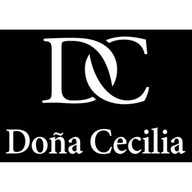
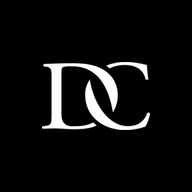
Torneos, fecha de entrada a doma, lector de chip e ícono DC
- Nuevo tipo de evento "Torneo" con contador y botón "+1 torneo" en
  Hechura y Jugadores (y "Torneos antes de la app").
- Campo "Entrada a doma (fecha)" en la ficha.
- Si el buscador recibe un chip completo (lector en modo teclado), abre
  directo la ficha del caballo.
- Ícono de la app con el monograma DC.

Claude-Session: https://claude.ai/code/session_01R1ArDYpcVxbGQihhCdmt13

diff --git a/app/index.html b/app/index.html
@@ -7,7 +7,7 @@
 </head>
 <body>
 <title>Doña Cecilia</title>
-<link rel="manifest" href="manifest.webmanifest">
+<link rel="manifest" href="manifest.webmanifest" crossorigin="use-credentials">
 <meta name="theme-color" content="#0E0E0E">
 <meta name="apple-mobile-web-app-capable" content="yes">
 <meta name="apple-mobile-web-app-title" content="Doña Cecilia">
@@ -175,7 +175,7 @@ td.link{cursor:pointer;font-weight:600}
 
 <script>
 const CATS=['Potrillos','Doma','Hechura','Jugadores','Madres'];
-const TIPOS=['Práctica','Desparasitación','Desvasada','Herrada','Vacuna','Veterinario','Tacto / Eco','Servicio','Parición','Castración','Movimiento','Revisión','Otro'];
+const TIPOS=['Práctica','Torneo','Desparasitación','Desvasada','Herrada','Vacuna','Veterinario','Tacto / Eco','Servicio','Parición','Castración','Movimiento','Revisión','Otro'];
 const TABS=[['inicio','Inicio'],['caballos','Caballos'],['madres','Madres'],['camadas','Camadas'],['sanidad','Sanidad'],['padrillos','Padrillos'],['notas','Notas']];
 const S={caballos:[],eventos:[],servicios:[],padrillos:[],notas:[],config:{despMadres:180,despResto:90,desvasar:60,herrar:45,temporada:2026},loaded:{}};
 const UI={tab:'inicio',cat:'',lugar:'',q:'',bajas:false,sel:null,camada:null,temporada:null,sanCat:'',notaFiltro:'pend',ficha:null};
@@ -197,6 +197,7 @@ function findByName(n){const k=norm(n);return k?S.caballos.find(c=>norm(c.nombre
 
 const fotoUrl=f=>(window.DC_BLOBS&&DC_BLOBS[f])||window.DC_FOTO_URL(f);
 const practicas=c=>(+c.practicasPrevias||0)+S.eventos.filter(e=>e.caballoId===c.id&&e.tipo==='Práctica').length;
+const torneos=c=>(+c.torneosPrevios||0)+S.eventos.filter(e=>e.caballoId===c.id&&e.tipo==='Torneo').length;
 function renderLogo(){const l=$('#logo');const id=S.config.logo;l.innerHTML=id?`<img src="${fotoUrl(id)}" alt="Doña Cecilia">`:'<span>DC</span>'}
 /* ---------- sanidad ---------- */
 function ultimo(cid,tipo){let f='';for(const e of S.eventos)if(e.caballoId===cid&&e.tipo===tipo&&e.fecha>f)f=e.fecha;return f}
@@ -259,7 +260,7 @@ function vCaballos(){
     return `<button class="hcard ${esc(c.sexo)} ${c.estado!=='Activo'?'baja':''}" data-${sel?'pick':'open'}="${c.id}">
       ${sel?`<input type="checkbox" tabindex="-1" ${sel.has(c.id)?'checked':''}>`:''}
       ${c.fotos?.length?`<img class="thumb" src="${fotoUrl(c.fotos[0])}" alt="" loading="lazy">`:''}
-      <div class="grow"><div class="nm">${esc(c.nombre)} ${c.venta?'<span class="pill p-venta">A la venta</span>':''} ${c.categoria==='Hechura'&&c.estado==='Activo'?`<span class="pill p-none">${practicas(c)} prácticas</span>`:''}</div>
+      <div class="grow"><div class="nm">${esc(c.nombre)} ${c.venta?'<span class="pill p-venta">A la venta</span>':''} ${c.categoria==='Hechura'&&c.estado==='Activo'?`<span class="pill p-none">${practicas(c)} prácticas</span>${torneos(c)?` <span class="pill p-none">${torneos(c)} torneos</span>`:''}`:''}</div>
       <div class="meta">${[e!==null?e+(e===1?' año':' años'):'',c.categoria,c.camada?'Camada '+c.camada:'',c.estado!=='Activo'?c.estado:''].filter(Boolean).join(' · ')}</div></div>
       ${c.estado==='Activo'&&enCampo(c)?`<div class="dots" title="Desparasitación · Desvasada">${ds.map(s=>`<span class="dot d-${s.st}"></span>`).join('')}</div>`:''}
       ${sel?'':'<span class="go">›</span>'}</button>`}).join('')||'<div class="empty">No hay caballos con ese filtro.</div>'}</div>
@@ -344,9 +345,10 @@ function renderFicha(){
    <div class="sheet-h"><div><h2>${esc(c.nombre)}</h2><div class="row" style="margin-top:6px"><span class="pill p-none">${esc(c.categoria)}</span>${c.lugar?`<span class="pill p-none">${esc(c.lugar)}</span>`:''}${c.venta?'<span class="pill p-venta">A la venta</span>':''}${c.estado!=='Activo'?`<span class="pill p-bad">${esc(c.estado)}${c.bajaFecha?' '+fmt(c.bajaFecha):''}</span>`:''}</div></div><button class="x" data-act="close" aria-label="Cerrar">×</button></div>
    <div class="sheet-b">
     ${c.fotos?.length?`<img class="cover" src="${fotoUrl(c.fotos[0])}" alt="${esc(c.nombre)}">`:''}
-    <div class="kv">${[...(c.domador?[['Domador',c.domador]]:[]),['Sexo',c.sexo],['Nacimiento',fmt(c.nac)+(e!==null?` (${e} ${e===1?'año':'años'})`:'')],['Camada',c.camada],['Pelaje',c.pelaje],['Alzada',c.alzada],['RP',c.rp],['N° chip',c.chip]].map(([k,v])=>`<div><span>${k}</span><b>${esc(v||'—')}</b></div>`).join('')}</div>
+    <div class="kv">${[...(c.domador?[['Domador',c.domador]]:[]),['Sexo',c.sexo],['Nacimiento',fmt(c.nac)+(e!==null?` (${e} ${e===1?'año':'años'})`:'')],['Camada',c.camada],['Pelaje',c.pelaje],['Alzada',c.alzada],['RP',c.rp],['N° chip',c.chip],...(c.ingresoDoma?[['Entró a doma',fmt(c.ingresoDoma)]]:[])].map(([k,v])=>`<div><span>${k}</span><b>${esc(v||'—')}</b></div>`).join('')}</div>
     ${c.obs?`<div><h3>Observaciones</h3><div>${esc(c.obs)}</div></div>`:''}
     ${['Hechura','Jugadores'].includes(c.categoria)&&c.estado==='Activo'?`<div class="prac"><b>${practicas(c)}</b><div class="grow" style="flex:1">prácticas<div class="small muted">${(()=>{const u=S.eventos.filter(e=>e.caballoId===c.id&&e.tipo==='Práctica').sort((a,b)=>b.fecha.localeCompare(a.fecha))[0];return u?'Última: '+fmt(u.fecha):'Sin prácticas cargadas en la app'})()}</div></div>${canWrite?`<button class="btn pri" data-prac="${c.id}">+1 práctica</button>`:''}</div>`:''}
+    ${['Hechura','Jugadores'].includes(c.categoria)&&c.estado==='Activo'?`<div class="prac"><b>${torneos(c)}</b><div class="grow" style="flex:1">torneos<div class="small muted">${(()=>{const u=S.eventos.filter(e=>e.caballoId===c.id&&e.tipo==='Torneo').sort((a,b)=>b.fecha.localeCompare(a.fecha))[0];return u?'Último: '+fmt(u.fecha)+(u.obs?' · '+esc(u.obs):''):'Sin torneos cargados en la app'})()}</div></div>${canWrite?`<button class="btn pri" data-torneo="${c.id}">+1 torneo</button>`:''}</div>`:''}
     ${c.estado==='Activo'?`<div><h3>Sanidad actual</h3><div class="list">${['Desparasitación','Desvasada','Herrada'].map(t=>{const s=estadoSan(c,t);return `<div class="li"><div>${t}<div class="sub">Última ${fmt(s.u)}${s.p?' · próxima '+fmt(s.p):''}</div></div><span class="pill p-${s.st}">${s.txt}</span></div>`}).join('')}</div></div>`:''}
     <div><div class="head" style="margin-bottom:6px"><h3 style="margin:0">Eventos</h3>${canWrite?`<button class="btn sm pri" data-evento="${c.id}">+ Evento</button>`:''}</div>
      <div class="list">${evs.map(x=>`<div class="li"><div><b style="font-weight:600">${esc(x.tipo)}</b>${x.detalle&&x.detalle!==x.tipo?' · '+esc(x.detalle):''}<div class="sub">${fmt(x.fecha)}${x.obs?' · '+esc(x.obs):''}${x.por?' · cargó '+esc(names[x.por]||'…'):''}</div></div>
@@ -454,11 +456,11 @@ function slugId(p){return p+'-'+Date.now().toString(36)+Math.random().toString(3
 function caballoForm(c,pre={},after){
   const v={...pre,...(c||{})};
   form(c?'Editar datos':'Alta de caballo',[
-    {k:'nombre',l:'Nombre',v:v.nombre,req:1,full:1},{k:'categoria',l:'Categoría',type:'select',opts:CATS,v:v.categoria||'Potrillos'},{k:'lugar',l:'Lugar',v:v.lugar??'Doña Cecilia',list:'dl-lug'},{k:'domador',l:'Domador',v:v.domador},{k:'alzada',l:'Alzada (ej: 1,55 m)',v:v.alzada},
+    {k:'nombre',l:'Nombre',v:v.nombre,req:1,full:1},{k:'categoria',l:'Categoría',type:'select',opts:CATS,v:v.categoria||'Potrillos'},{k:'lugar',l:'Lugar',v:v.lugar??'Doña Cecilia',list:'dl-lug'},{k:'domador',l:'Domador',v:v.domador},{k:'ingresoDoma',l:'Entrada a doma (fecha)',type:'date',v:v.ingresoDoma},{k:'alzada',l:'Alzada (ej: 1,55 m)',v:v.alzada},
     {k:'sexo',l:'Sexo',type:'select',opts:['Macho','Hembra',''],v:v.sexo||''},{k:'pelaje',l:'Pelaje',v:v.pelaje},{k:'nac',l:'Fecha de nacimiento',type:'date',v:v.nac},{k:'camada',l:'Camada (año)',type:'number',v:v.camada},
     {k:'rp',l:'RP',v:v.rp},{k:'chip',l:'N° chip',v:v.chip},{k:'padre',l:'Padre',v:v.padre,list:'dl-pad'},{k:'madre',l:'Madre',v:v.madre,list:'dl-hembras'},
     {k:'abueloP',l:'Abuelo paterno',v:v.abueloP},{k:'abuelaP',l:'Abuela paterna',v:v.abuelaP},{k:'abueloM',l:'Abuelo materno',v:v.abueloM},{k:'abuelaM',l:'Abuela materna',v:v.abuelaM},
-    {k:'practicasPrevias',l:'Prácticas antes de la app',type:'number',v:v.practicasPrevias},{k:'venta',l:'A la venta',type:'check',v:v.venta},{k:'obs',l:'Observaciones',type:'area',v:v.obs}],
+    {k:'practicasPrevias',l:'Prácticas antes de la app',type:'number',v:v.practicasPrevias},{k:'torneosPrevios',l:'Torneos antes de la app',type:'number',v:v.torneosPrevios},{k:'venta',l:'A la venta',type:'check',v:v.venta},{k:'obs',l:'Observaciones',type:'area',v:v.obs}],
     async d=>{if(!d.camada&&d.nac)d.camada=+d.nac.slice(0,4);
       if(c){await db.collection('caballos').doc(c.id).update(d);toast('Datos guardados');UI.ficha=c.id;renderFicha()}
       else{const id=slugId('c');await db.collection('caballos').doc(id).set({...d,estado:'Activo'});toast(d.nombre+' dado de alta');if(after)await after(id,d);UI.ficha=id;renderFicha()}},datalists());conectarGenealogia()}
@@ -512,7 +514,7 @@ function notaForm(n){form(n?'Editar nota':'Nueva nota',[{k:'titulo',l:'Tema',v:n
 /* ---------- events ---------- */
 let pendingDel=null;
 document.addEventListener('click',async ev=>{
-  const t=ev.target.closest('[data-venta],[data-vsave],[data-vpng],[data-vtxt],[data-go],[data-prac],[data-portada],[data-delfoto],[data-tab],[data-cat],[data-act],[data-open],[data-open-name],[data-pick],[data-temp],[data-camada],[data-sancat],[data-nf],[data-parto],[data-serv],[data-pad],[data-nota],[data-nota-toggle],[data-evento],[data-delev],[data-edit],[data-baja],[data-alta-de-nuevo],[data-delserv],[data-delnota],[data-close-ov]');
+  const t=ev.target.closest('[data-venta],[data-vsave],[data-vpng],[data-vtxt],[data-go],[data-prac],[data-torneo],[data-portada],[data-delfoto],[data-tab],[data-cat],[data-act],[data-open],[data-open-name],[data-pick],[data-temp],[data-camada],[data-sancat],[data-nf],[data-parto],[data-serv],[data-pad],[data-nota],[data-nota-toggle],[data-evento],[data-delev],[data-edit],[data-baja],[data-alta-de-nuevo],[data-delserv],[data-delnota],[data-close-ov]');
   if(!t)return;const d=t.dataset;
   if('closeOv' in d&&ev.target!==t)return;
   if('closeOv' in d){closeModal();return}
@@ -535,6 +537,7 @@ document.addEventListener('click',async ev=>{
   if(d.vsave){await guardarVenta(d.vsave);return}
   if(d.vpng){await bajarPng(d.vpng);return}
   if(d.vtxt){await copiarTxt(d.vtxt);return}
+  if(d.torneo){const c=byId(d.torneo);const t=prompt('¿Qué torneo? (podés dejarlo vacío)','');if(t===null)return;await db.collection('eventos').doc(slugId('e')).set({fecha:hoy(),caballoId:c.id,caballo:c.nombre,tipo:'Torneo',detalle:'Torneo',obs:t.trim(),por:uid||''});toast('Torneo sumado a '+c.nombre);return}
   if(d.prac){const c=byId(d.prac);await db.collection('eventos').doc(slugId('e')).set({fecha:hoy(),caballoId:c.id,caballo:c.nombre,tipo:'Práctica',detalle:'Práctica',obs:'',por:uid||''});toast('Práctica sumada a '+c.nombre);return}
   if(d.go){const [k,v]=d.go.split(':');UI.tab=k==='cat'?'caballos':'camadas';if(k==='cat'){UI.cat=v;UI.bajas=false}else UI.camada=+v;render();window.scrollTo(0,0);return}
   if(d.portada){const [id,f]=d.portada.split('|');const c=byId(id);await db.collection('caballos').doc(id).update({fotos:[f,...c.fotos.filter(x=>x!==f)]});toast('Portada cambiada');return}
@@ -561,7 +564,7 @@ document.addEventListener('click',async ev=>{
     case 'savecfg':{const o={};for(const k of ['despMadres','despResto','desvasar','herrar'])o[k]=+document.getElementById('k-'+k).value||S.config[k];await db.doc('config/app').set({...S.config,...o});toast('Días guardados');break}
   }
 });
-document.addEventListener('input',e=>{if(e.target.id==='q'){UI.q=e.target.value;const pos=e.target.selectionStart;render();const q=$('#q');q.focus();q.setSelectionRange(pos,pos)}});
+document.addEventListener('input',e=>{if(e.target.id==='q'){const ch=e.target.value.replace(/\D/g,'');if(ch.length>=15){const m=S.caballos.filter(c=>String(c.chip||'').replace(/\D/g,'')===ch);if(m.length===1){UI.q='';e.target.value='';UI.ficha=m[0].id;render();renderFicha();return}}UI.q=e.target.value;const pos=e.target.selectionStart;render();const q=$('#q');q.focus();q.setSelectionRange(pos,pos)}});
 document.addEventListener('change',e=>{if(e.target.id==='lugar'){UI.lugar=e.target.value;render()}});
 document.addEventListener('click',e=>{if(e.target.matches?.('input[type=file]'))e.target.onchange=onFile},true);
 async function onFile(e){

diff --git a/app/sw.js b/app/sw.js
@@ -1,7 +1,7 @@
 /* Guarda la app en el celular para que abra aunque no haya señal.
    Muestra lo guardado al instante y, si hay señal, se actualiza para la próxima vez.
    Al cambiar archivos de la app, subir el número de VERSION. */
-const VERSION='dc-v1';
+const VERSION='dc-v2';
 const ARCHIVOS=['./','index.html','nube.js','supabase.js','config.js','logo.jpg','icono-192.png','icono-512.png','manifest.webmanifest'];
 self.addEventListener('install',e=>{e.waitUntil(caches.open(VERSION).then(c=>c.addAll(ARCHIVOS)).then(()=>self.skipWaiting()))});
 self.addEventListener('activate',e=>{e.waitUntil(caches.keys().then(ks=>Promise.all(ks.filter(k=>k!==VERSION).map(k=>caches.delete(k)))).then(()=>self.clients.claim()))});
